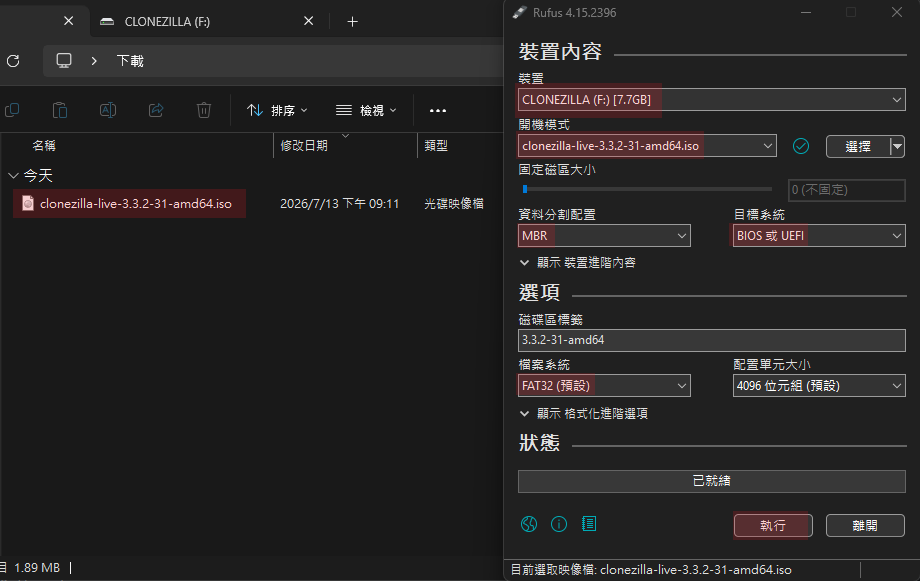
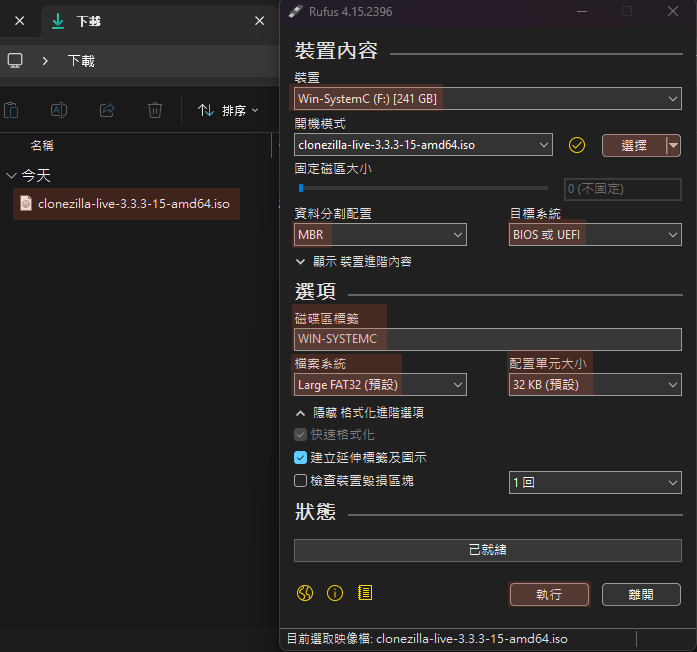
update somethings

diff --git a/docs/offline_image.md b/docs/offline_image.md
@@ -8,7 +8,7 @@
   - #### *做 Clonezilla 開機碟 ( 啟動隨身碟 ➔ To-RAM )*
   - #### *儲存備份出來的映像檔資料夾 ( 兼存放映像檔 )*
   - #### *容量至少 225GB*
-  - #### *格式化 ( exFAT )*
+  - #### *格式化 ( NTFS )*
 
 - #### *2. Rufus 燒錄軟體*
   - #### *將 Clonezilla ISO 檔燒進隨身碟*
@@ -40,14 +40,14 @@
   * [ ] 6 系統會要求選擇`備份檔存哪裡`，此時選擇 **`隨身碟`**，並選定資料夾
   * [ ] 7 模式選擇 **`Expert (-sfs)`** ➔ 選擇 **`savedisk（儲存整顆硬碟為映像檔 ➔ 選擇分割（4000MB 一個檔案）`**
   * [ ] 8 輸入備份檔名 **`Win11_Clean_Backup`**，接著一路按 Enter 接受預設，最後輸入 **`y`** 確認，系統就會開始跑進度條備份
-  * [ ] 9 創建鏡像完成後，重新進入系統回歸正常使用，手動執行 **`manage-bde -on C:`**<br>並 **`重啟（務必耐心等待狀態顯示已解鎖: manage-bde -status C:）`**，確保 TPM 安全綁定重新建立
+  * [ ] 9 創建鏡像完成後，重新進入系統回歸正常使用，手動執行 **`manage-bde -on C:`**<br>**`重啟前（務必耐心等待狀態顯示已解鎖: manage-bde -status C:）`**，確保 TPM 安全綁定重新建立
 
 <br>
 
 - #### *3. 還原鏡像 ( 災難發生 )*
   > 💡 準備動作：同樣用隨身碟開機引導 (選擇 To-RAM 選擇同時存放其中的映像檔)
   * [ ] 1 重複上述的步驟（創建鏡像）`1` 到 `4`，讓 Clonezilla 掛載 **`隨身碟`**
-  * [ ] 2 進入模式時選 **`Beginner 初學模式`**，但改選 **`restoredisk（還原映像檔到本機硬碟）`**
+  * [ ] 2 進入模式時選 **`Beginner 初學模式`**，但改選 **`restoredisk（還原映像檔到本機硬碟 # 用容量大小識別 否則洗到資料碟 你會哭死）`**
   * [ ] 3 選擇之前備份的資料夾名稱（`Win11_Clean_Backup`）
   * [ ] 4 選擇 **C 槽硬碟** 作為目標目的地
   * [ ] 5 系統會跳出紅色警告字體，連續輸入兩次 **`y`** 確認（ **覆寫並清空 C 槽** ）